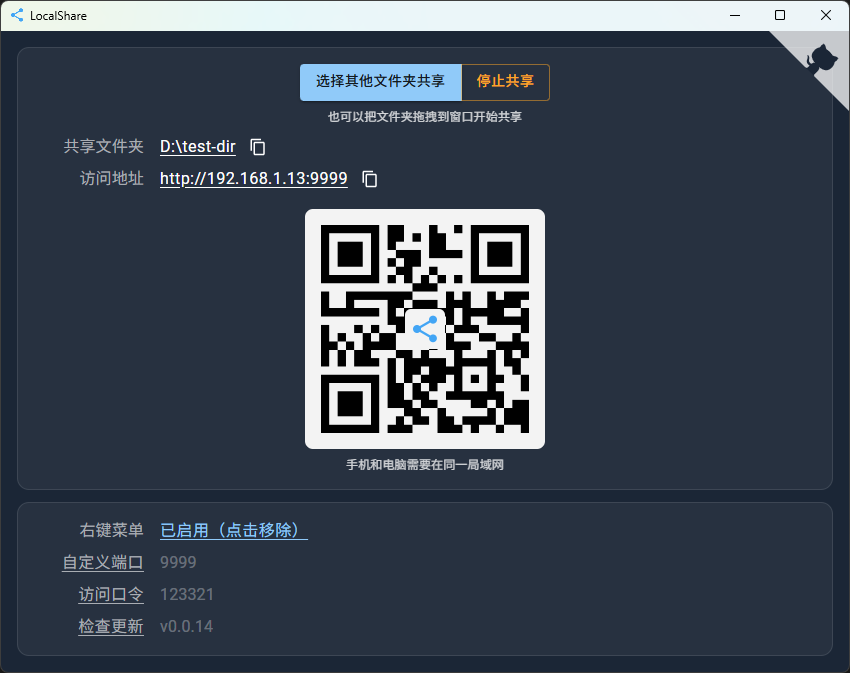
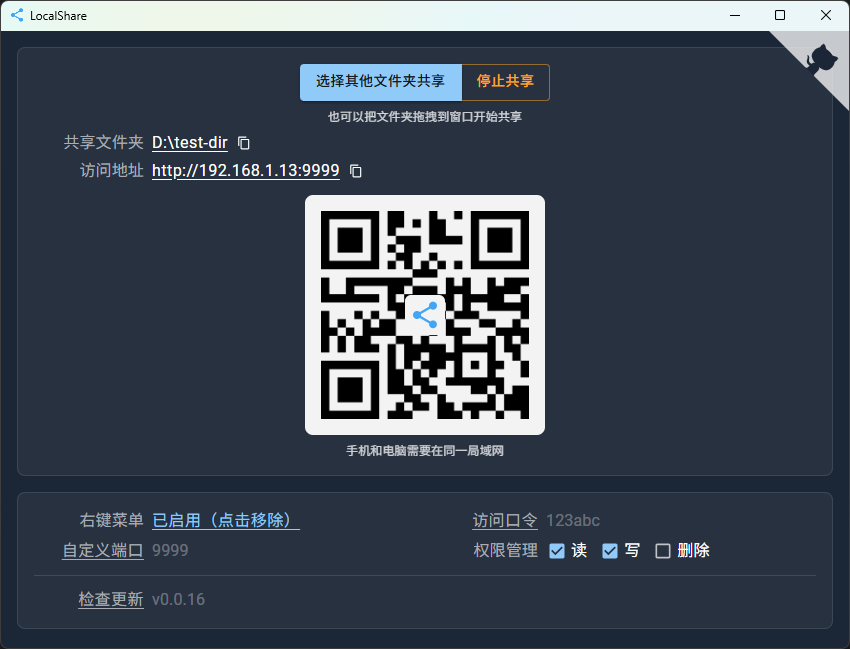
docs: 支持权限管理 写入到文档

diff --git a/docs/index.html b/docs/index.html
@@ -185,6 +185,19 @@
             <div class="card__head">
               <span class="card__icon" aria-hidden="true">
                 <svg viewBox="0 0 24 24" fill="none" xmlns="http://www.w3.org/2000/svg">
+                  <path d="M7 7h10a3 3 0 0 1 3 3v7H4v-7a3 3 0 0 1 3-3Z" stroke="currentColor" stroke-width="1.7" />
+                  <path d="M9 20h6" stroke="currentColor" stroke-width="1.7" stroke-linecap="round" />
+                  <path d="M9 13h6" stroke="currentColor" stroke-width="1.7" stroke-linecap="round" />
+                </svg>
+              </span>
+              <h3>权限管理（读/写/删）</h3>
+            </div>
+            <p>可在客户端勾选读/写/删除权限。默认允许读写、禁止删除，让共享更可控。</p>
+          </article>
+          <article class="card">
+            <div class="card__head">
+              <span class="card__icon" aria-hidden="true">
+                <svg viewBox="0 0 24 24" fill="none" xmlns="http://www.w3.org/2000/svg">
                   <path d="M7 3h7l3 3v15a2 2 0 0 1-2 2H7a2 2 0 0 1-2-2V5a2 2 0 0 1 2-2Z" stroke="currentColor"
                     stroke-width="1.7" />
                   <path d="M14 3v4a2 2 0 0 0 2 2h4" stroke="currentColor" stroke-width="1.7" stroke-linejoin="round" />
@@ -321,6 +334,13 @@
             <div class="faq__body">
               支持。你可以在客户端里设置“访问口令”，启用后：访问共享网页会先提示输入口令，通过后会获得一个临时 token（会自动续期），后续操作无需重复输入。
               <p class="muted">口令规则：1–16 位，仅支持字母/数字。提示：访问口令是局域网内的轻量保护，仍建议在可信网络中使用。</p>
+            </div>
+          </details>
+
+          <details>
+            <summary>支持“权限管理”吗？</summary>
+            <div class="faq__body">
+              支持。可在客户端设置中勾选读/写/删除权限；默认允许读写、禁止删除。关闭写入后无法上传，关闭读取后无法浏览/下载。
             </div>
           </details>
 
